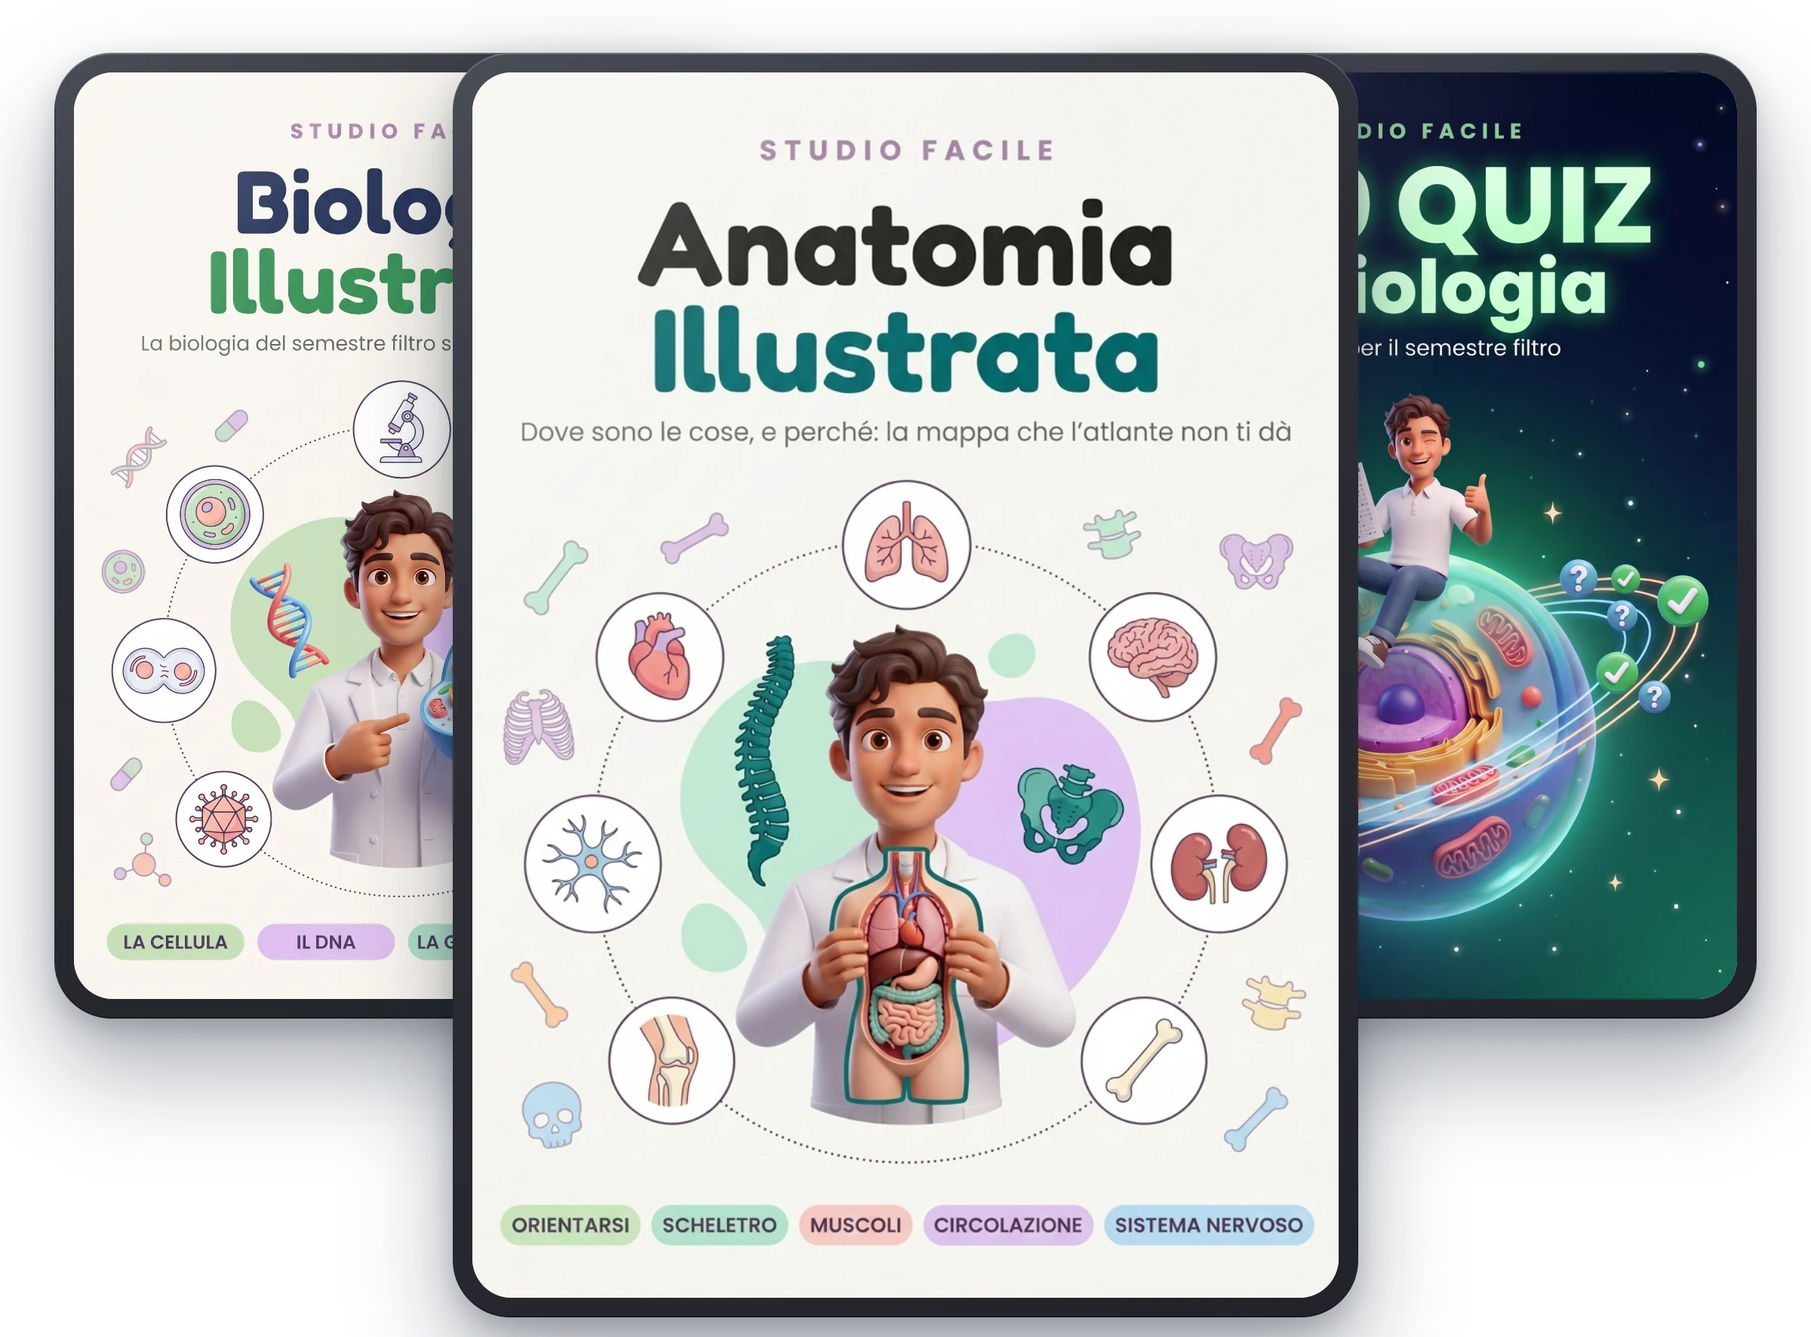
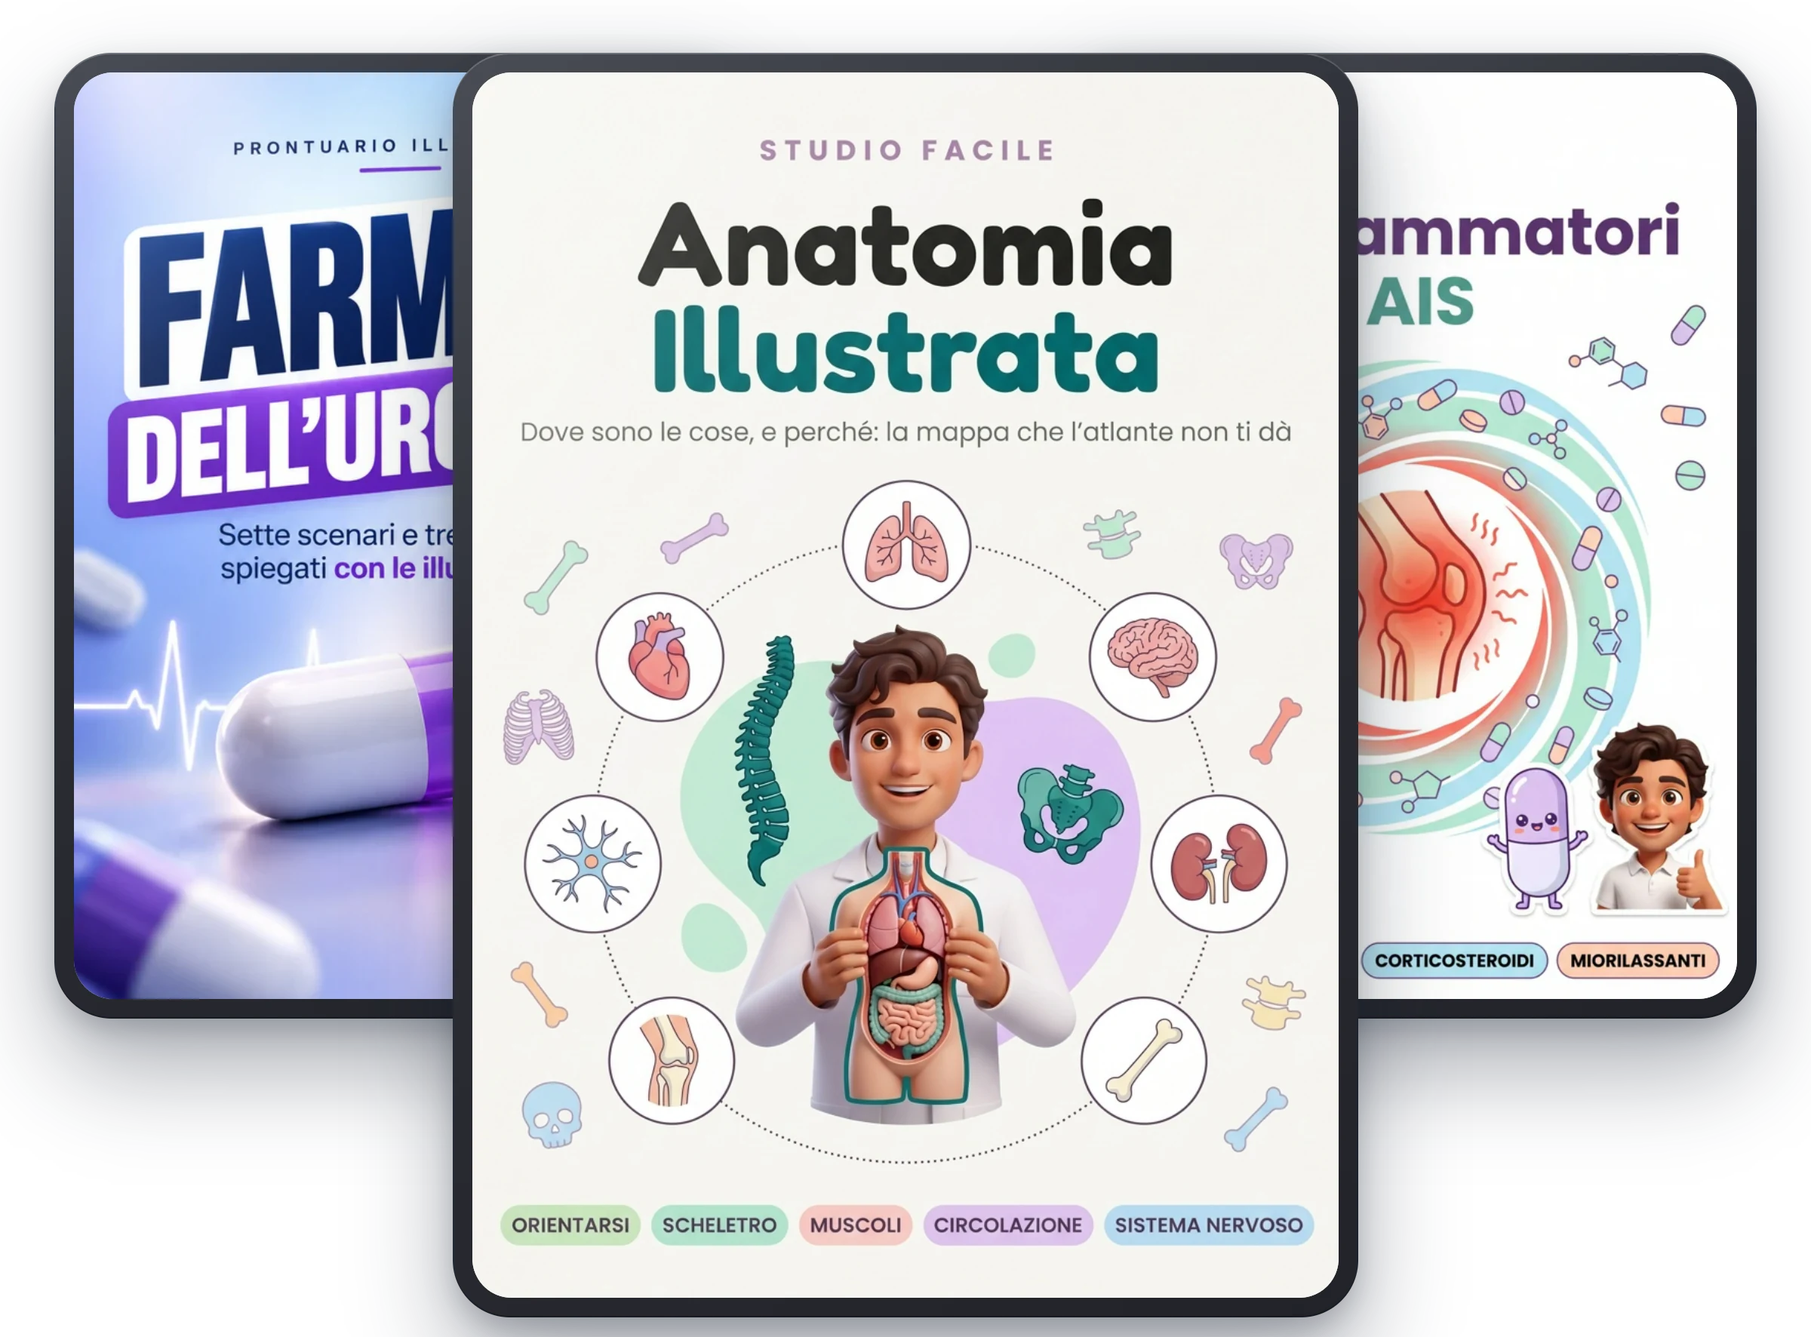
anatomia: bonus cambiados y comparativo arreglado
BONUS (eleccion de Luca): Farmaci in Emergenza (81 pag, 17,90) y el
Prontuario de Antinfiammatori (64 pag, 14,90), en lugar de los dos
volumenes de biologia. Los precios salen de collezione.html, no
inventados. El stack cierra: 58,20 + 17,90 + 14,90 = 91.

EL «QUESTO» DEL COMPARATIVO estaba mal y Luca lo marco. Era un recorte
del panel COSI NO de la pagina a6, y se traia la frase «A sinistra:
ventidue nomi in fila...»: dentro del libro tiene sentido porque hay un
«a destra», suelta en la landing no dice nada.

Ahora se compone aparte: una lista de 32 nombres anatomicos reales —el
carpo y los musculos del brazo— en dos columnas, en gris, sin ningun
dibujo, bajo el titulo «DA IMPARARE A MEMORIA / entro giovedi». No es la
pagina de ningun competidor: es el METODO que el libro dice de dejar, y
dibujarlo nosotros es la unica forma honesta de mostrarlo.

Sigue NOINDEX hasta que exista el producto del checkout.

Changed region(s): [[0.75, 0.031, 0.9688, 0.7449], [0.0312, 0.031, 0.25, 0.7449]]

diff --git a/anatomia.html b/anatomia.html
@@ -44,7 +44,7 @@
   <!-- Twitter / X -->
   <meta name="twitter:card" content="summary_large_image">
   <meta name="twitter:title" content="Anatomia Illustrata | Studio Facile">
-  <meta name="twitter:description" content="59 pagine illustrate, e due volumi di biologia in regalo.">
+  <meta name="twitter:description" content="59 pagine illustrate, e due prontuari clinici in regalo.">
   <meta name="twitter:image" content="https://www.studiofacilebook.com/mockups/anatomia/og.jpg">
 
   <!-- Iconos -->
@@ -2089,7 +2089,7 @@
     }
 </style>
   <script type="application/ld+json">
-{"@context": "https://schema.org", "@graph": [{"@type": "Product", "name": "Anatomia Illustrata — guida illustrata", "brand": {"@type": "Brand", "name": "Studio Facile"}, "description": "59 pagine illustrate, schemi e non tavole: ritmo, aritmie, blocchi, infarto ed elettroliti. Con due volumi in regalo.", "image": "https://www.studiofacilebook.com/mockups/anatomia/hero.webp", "offers": {"@type": "Offer", "price": "19.9", "priceCurrency": "EUR", "availability": "https://schema.org/InStock", "url": "https://checkout.studiofacilebook.com/checkout/kit-anatomia-illustrata", "hasMerchantReturnPolicy": {"@type": "MerchantReturnPolicy", "returnPolicyCategory": "https://schema.org/MerchantReturnFiniteReturnWindow", "merchantReturnDays": 30, "applicableCountry": "IT"}}}, {"@type": "FAQPage", "mainEntity": [{"@type": "Question", "name": "Come riceverò il materiale?", "acceptedAnswer": {"@type": "Answer", "text": "Subito dopo l'acquisto ricevi un'email automatica con i tre volumi: Anatomia Illustrata, Biologia Illustrata e 300 Quiz di Biologia. Sono PDF in alta risoluzione, pronti da scaricare, stampare o consultare da qualsiasi dispositivo."}}, {"@type": "Question", "name": "Il pagamento è mensile o unico?", "acceptedAnswer": {"@type": "Answer", "text": "Pagamento unico di 19,90€. Nessuna rata, nessun addebito ricorrente, nessuna sorpresa. Paghi una volta e il materiale è tuo per sempre."}}, {"@type": "Question", "name": "Serve partire da zero o bisogna già sapere qualcosa?", "acceptedAnswer": {"@type": "Answer", "text": "Si parte da zero: la prima parte dà i piani, le direzioni e il modo di leggere un nome anatomico prima di qualsiasi struttura. Chi l'esame lo ha già dato salta alla parte che gli serve e trova le dieci domande risolte in fondo."}}, {"@type": "Question", "name": "Sostituisce l'atlante?", "acceptedAnswer": {"@type": "Answer", "text": "No, e non prova a farlo: lo dice la prima pagina del libro. L'atlante ti mostra com'è fatta ogni struttura ed è insostituibile. Questo volume fa l'altra metà — dove sta, con che cosa confina, perché è così — e si tiene aperto accanto a quello."}}, {"@type": "Question", "name": "Copre tutto il programma di anatomia?", "acceptedAnswer": {"@type": "Answer", "text": "No, e sarebbe una bugia dirlo in 59 pagine: l'anatomia umana occupa migliaia di pagine. Questo libro copre la struttura del programma e gli argomenti che vengono chiesti più spesso, nel modo in cui vengono chiesti. Il titolo della parte III lo dice apertamente: i muscoli che cadono all'esame, non tutti i muscoli del corpo."}}, {"@type": "Question", "name": "Posso stampare il materiale?", "acceptedAnswer": {"@type": "Answer", "text": "Sì, per uso personale e senza limiti. I PDF sono pensati in alta risoluzione, da stampare, annotare e portare in reparto o in tirocinio."}}]}]}
+{"@context": "https://schema.org", "@graph": [{"@type": "Product", "name": "Anatomia Illustrata — guida illustrata", "brand": {"@type": "Brand", "name": "Studio Facile"}, "description": "59 pagine illustrate, schemi e non tavole: ritmo, aritmie, blocchi, infarto ed elettroliti. Con due volumi in regalo.", "image": "https://www.studiofacilebook.com/mockups/anatomia/hero.webp", "offers": {"@type": "Offer", "price": "19.9", "priceCurrency": "EUR", "availability": "https://schema.org/InStock", "url": "https://checkout.studiofacilebook.com/checkout/kit-anatomia-illustrata", "hasMerchantReturnPolicy": {"@type": "MerchantReturnPolicy", "returnPolicyCategory": "https://schema.org/MerchantReturnFiniteReturnWindow", "merchantReturnDays": 30, "applicableCountry": "IT"}}}, {"@type": "FAQPage", "mainEntity": [{"@type": "Question", "name": "Come riceverò il materiale?", "acceptedAnswer": {"@type": "Answer", "text": "Subito dopo l'acquisto ricevi un'email automatica con i tre volumi: Anatomia Illustrata, Farmaci in Emergenza e il Prontuario degli Antinfiammatori. Sono PDF in alta risoluzione, pronti da scaricare, stampare o consultare da qualsiasi dispositivo."}}, {"@type": "Question", "name": "Il pagamento è mensile o unico?", "acceptedAnswer": {"@type": "Answer", "text": "Pagamento unico di 19,90€. Nessuna rata, nessun addebito ricorrente, nessuna sorpresa. Paghi una volta e il materiale è tuo per sempre."}}, {"@type": "Question", "name": "Serve partire da zero o bisogna già sapere qualcosa?", "acceptedAnswer": {"@type": "Answer", "text": "Si parte da zero: la prima parte dà i piani, le direzioni e il modo di leggere un nome anatomico prima di qualsiasi struttura. Chi l'esame lo ha già dato salta alla parte che gli serve e trova le dieci domande risolte in fondo."}}, {"@type": "Question", "name": "Sostituisce l'atlante?", "acceptedAnswer": {"@type": "Answer", "text": "No, e non prova a farlo: lo dice la prima pagina del libro. L'atlante ti mostra com'è fatta ogni struttura ed è insostituibile. Questo volume fa l'altra metà — dove sta, con che cosa confina, perché è così — e si tiene aperto accanto a quello."}}, {"@type": "Question", "name": "Copre tutto il programma di anatomia?", "acceptedAnswer": {"@type": "Answer", "text": "No, e sarebbe una bugia dirlo in 59 pagine: l'anatomia umana occupa migliaia di pagine. Questo libro copre la struttura del programma e gli argomenti che vengono chiesti più spesso, nel modo in cui vengono chiesti. Il titolo della parte III lo dice apertamente: i muscoli che cadono all'esame, non tutti i muscoli del corpo."}}, {"@type": "Question", "name": "Posso stampare il materiale?", "acceptedAnswer": {"@type": "Answer", "text": "Sì, per uso personale e senza limiti. I PDF sono pensati in alta risoluzione, da stampare, annotare e portare in reparto o in tirocinio."}}]}]}
   </script>
 <!-- Brevo: seguimiento web (visitas y clics de compra para las automatizaciones) -->
 <script src="https://cdn.brevo.com/js/sdk-loader.js" async></script>
@@ -2131,7 +2131,7 @@
   <section class="hero">
     <div class="hero-content">
       <div class="hero-mockup">
-        <img src="https://czocbnyoenjbpxmcqobn.supabase.co/storage/v1/object/public/algoritmia-img/studiofacile/mockups/anatomia/hero.webp?v=1be2226b" alt="Anatomia Illustrata, con Biologia Illustrata e 300 Quiz di Biologia in regalo"
+        <img src="https://czocbnyoenjbpxmcqobn.supabase.co/storage/v1/object/public/algoritmia-img/studiofacile/mockups/anatomia/hero.webp?v=536844b3" alt="Anatomia Illustrata, con Farmaci in Emergenza e il Prontuario degli Antinfiammatori in regalo"
              width="1200" height="886" loading="eager" fetchpriority="high" decoding="async">
       </div>
       <p class="hero-social">
@@ -2259,11 +2259,11 @@
         <div class="comparison-card bad-card">
           <div class="comparison-label bad">QUESTO</div>
           <ul class="comparison-bullets bad-list">
-            <li>Ventidue nomi in ordine alfabetico</li>
+            <li>Una lista di nomi da mandare a memoria</li>
             <li>Nessun posto dove appenderli</li>
             <li>Dopo tre giorni non ne resta niente</li>
           </ul>
-          <img src="https://czocbnyoenjbpxmcqobn.supabase.co/storage/v1/object/public/algoritmia-img/studiofacile/mockups/anatomia/questo.webp?v=6563d3af" alt="Ventidue nomi in fila, senza nessun disegno" width="1200" height="1299" loading="lazy" decoding="async">
+          <img src="https://czocbnyoenjbpxmcqobn.supabase.co/storage/v1/object/public/algoritmia-img/studiofacile/mockups/anatomia/questo.webp?v=8edf0658" alt="Una lista di nomi anatomici da imparare a memoria" width="900" height="1190" loading="lazy" decoding="async">
         </div>
         <div class="comparison-card good-card">
           <div class="comparison-label good">PER QUESTO</div>
@@ -2455,39 +2455,39 @@
       <div class="bonus-grid">
         <div class="bonus-item-with-image">
           <div class="bonus-mockup">
-            <img src="https://czocbnyoenjbpxmcqobn.supabase.co/storage/v1/object/public/algoritmia-img/studiofacile/mockups/anatomia/bonus-biologia.webp?v=23380e65" alt="Biologia Illustrata" width="720" height="1000" loading="lazy" decoding="async">
+            <img src="https://czocbnyoenjbpxmcqobn.supabase.co/storage/v1/object/public/algoritmia-img/studiofacile/mockups/anatomia/bonus-emergenza.webp?v=6e2a5256" alt="Farmaci in Emergenza, prontuario illustrato" width="720" height="1000" loading="lazy" decoding="async">
           </div>
           <div class="bonus-text">
-            <h3>BONUS 1: &ldquo;Biologia Illustrata&rdquo;, 108 pagine</h3>
-            <p class="value">Valore singolo: 19,90€</p>
-            <p>L'altra materia che studi nello stesso periodo, nello stesso modo: <strong>la cellula, il DNA, la genetica</strong> e il metabolismo, un argomento per pagina e il disegno che lo spiega.</p>
-            <p style="margin-top: 12px;">È il volume più lungo della collana — da solo è quasi il doppio dell'anatomia.</p>
-            <div class="bonus-sfoglia"><figure><img src="https://czocbnyoenjbpxmcqobn.supabase.co/storage/v1/object/public/algoritmia-img/studiofacile/anteprime/biologia_01.webp?v=5af70717" alt="Una pagina di Biologia Illustrata" width="1100" height="1556" loading="lazy" decoding="async"><figcaption>La cellula, un argomento per pagina</figcaption></figure><figure><img src="https://czocbnyoenjbpxmcqobn.supabase.co/storage/v1/object/public/algoritmia-img/studiofacile/anteprime/biologia_04.webp?v=01017003" alt="Una pagina di Biologia Illustrata" width="1100" height="1556" loading="lazy" decoding="async"><figcaption>Il disegno porta la logica</figcaption></figure></div>
+            <h3>BONUS 1: &ldquo;Farmaci in Emergenza&rdquo;, il prontuario illustrato</h3>
+            <p class="value">Valore singolo: 17,90€</p>
+            <p>81 pagine sui farmaci del carrello dell'emergenza — <strong>adrenalina, amiodarone, atropina</strong> — con le diluizioni e le dosi da sapere a memoria.</p>
+            <p style="margin-top: 12px;">L'anatomia ti dice dove passa il nervo radiale e quale arteria irrora quale parete. Questo ti dice che cosa si prepara quando quella parete va in sofferenza: è lo stesso corpo, un anno dopo.</p>
+            <div class="bonus-sfoglia"><figure><img src="https://czocbnyoenjbpxmcqobn.supabase.co/storage/v1/object/public/algoritmia-img/studiofacile/anteprime/emergenza_04.webp?v=0b2fd0a9" alt="Le diluizioni che uccidono" width="1100" height="1556" loading="lazy" decoding="async"><figcaption>Le diluizioni che uccidono</figcaption></figure><figure><img src="https://czocbnyoenjbpxmcqobn.supabase.co/storage/v1/object/public/algoritmia-img/studiofacile/anteprime/emergenza_05.webp?v=a2bd30fe" alt="Scheda farmaco: amiodarone" width="1100" height="1556" loading="lazy" decoding="async"><figcaption>La scheda dell'amiodarone</figcaption></figure></div>
           </div>
         </div>
 
         <div class="bonus-item-with-image">
           <div class="bonus-mockup">
-            <img src="https://czocbnyoenjbpxmcqobn.supabase.co/storage/v1/object/public/algoritmia-img/studiofacile/mockups/anatomia/bonus-quiz.webp?v=96d38b05" alt="300 Quiz di Biologia" width="720" height="1000" loading="lazy" decoding="async">
+            <img src="https://czocbnyoenjbpxmcqobn.supabase.co/storage/v1/object/public/algoritmia-img/studiofacile/mockups/anatomia/bonus-antinfiammatori.webp?v=23a10358" alt="Prontuario Illustrato degli Antinfiammatori" width="720" height="1000" loading="lazy" decoding="async">
           </div>
           <div class="bonus-text">
-            <h3>BONUS 2: &ldquo;300 Quiz di Biologia&rdquo;, 68 pagine</h3>
+            <h3>BONUS 2: &ldquo;Prontuario Illustrato — Antinfiammatori&rdquo;</h3>
             <p class="value">Valore singolo: 14,90€</p>
-            <p>Trecento domande con la <strong>risposta spiegata</strong>, non solo segnata: perché quella è giusta e perché le altre tre sembravano giuste.</p>
-            <p style="margin-top: 12px;">È l'allenamento che manca a chi ha letto tutto e non sa ancora se lo sa davvero: si scopre in trenta secondi, non all'appello.</p>
-            <div class="bonus-sfoglia"><figure><img src="https://czocbnyoenjbpxmcqobn.supabase.co/storage/v1/object/public/algoritmia-img/studiofacile/anteprime/quizbio_01.webp?v=9e2c0905" alt="Una pagina di 300 Quiz di Biologia" width="1100" height="1556" loading="lazy" decoding="async"><figcaption>La domanda, e perché la risposta è quella</figcaption></figure><figure><img src="https://czocbnyoenjbpxmcqobn.supabase.co/storage/v1/object/public/algoritmia-img/studiofacile/anteprime/quizbio_02.webp?v=f4d876f3" alt="Una pagina di 300 Quiz di Biologia" width="1100" height="1556" loading="lazy" decoding="async"><figcaption>Trecento, divise per argomento</figcaption></figure></div>
+            <p>64 pagine sui farmaci più usati e più sottovalutati che esistano: <strong>FANS, cortisonici e paracetamolo</strong>, con quello che fanno allo stomaco, al rene e alla pressione.</p>
+            <p style="margin-top: 12px;">Sono le molecole che incontrerai in ogni reparto e in ogni tirocinio, qualunque strada scegli dopo.</p>
+            <div class="bonus-sfoglia"><figure><img src="https://czocbnyoenjbpxmcqobn.supabase.co/storage/v1/object/public/algoritmia-img/studiofacile/anteprime/antinfiammatori_03.webp?v=6e46e50f" alt="Una pagina del prontuario degli antinfiammatori" width="1100" height="1556" loading="lazy" decoding="async"><figcaption>Una famiglia per pagina</figcaption></figure><figure><img src="https://czocbnyoenjbpxmcqobn.supabase.co/storage/v1/object/public/algoritmia-img/studiofacile/anteprime/antinfiammatori_05.webp?v=a2524bcb" alt="Una pagina del prontuario degli antinfiammatori" width="1100" height="1556" loading="lazy" decoding="async"><figcaption>Che cosa guardare prima di darli</figcaption></figure></div>
           </div>
         </div>
       </div>
 
       <!-- DECISION BOX -->
       <div class="decision-box" id="offerta">
-        <img src="https://czocbnyoenjbpxmcqobn.supabase.co/storage/v1/object/public/algoritmia-img/studiofacile/mockups/anatomia/hero.webp?v=1be2226b" alt="Anatomia Illustrata con i due volumi in regalo" class="db-mockup" width="1200" height="886" loading="lazy" decoding="async">
+        <img src="https://czocbnyoenjbpxmcqobn.supabase.co/storage/v1/object/public/algoritmia-img/studiofacile/mockups/anatomia/hero.webp?v=536844b3" alt="Anatomia Illustrata con i due volumi in regalo" class="db-mockup" width="1200" height="886" loading="lazy" decoding="async">
         <h3 class="db-title">Anatomia Illustrata + 2 Volumi in Regalo</h3>
         <ul class="db-checklist">
-          <li><span class="db-check"><svg viewBox="0 0 24 24"><polyline points="20 6 9 17 4 12"/></svg></span>Anatomia Illustrata: 59 pagine illustrate<span class="db-price-val">56,20€</span></li>
-          <li><span class="db-check"><svg viewBox="0 0 24 24"><polyline points="20 6 9 17 4 12"/></svg></span>Bonus 1: Biologia Illustrata<span class="db-price-val">19,90€</span></li>
-          <li><span class="db-check"><svg viewBox="0 0 24 24"><polyline points="20 6 9 17 4 12"/></svg></span>Bonus 2: 300 Quiz di Biologia<span class="db-price-val">14,90€</span></li>
+          <li><span class="db-check"><svg viewBox="0 0 24 24"><polyline points="20 6 9 17 4 12"/></svg></span>Anatomia Illustrata: 59 pagine illustrate<span class="db-price-val">58,20€</span></li>
+          <li><span class="db-check"><svg viewBox="0 0 24 24"><polyline points="20 6 9 17 4 12"/></svg></span>Bonus 1: Farmaci in Emergenza<span class="db-price-val">17,90€</span></li>
+          <li><span class="db-check"><svg viewBox="0 0 24 24"><polyline points="20 6 9 17 4 12"/></svg></span>Bonus 2: Prontuario Antinfiammatori<span class="db-price-val">14,90€</span></li>
           <li><span class="db-check"><svg viewBox="0 0 24 24"><polyline points="20 6 9 17 4 12"/></svg></span>PDF in alta risoluzione per stampare<span class="db-price-val">Incluso</span></li>
         </ul>
         <div class="db-anchoring">
@@ -2562,8 +2562,8 @@
       <h2 class="text-center">Ricapitolando: Ecco Cosa Ricevi</h2>
       <ul class="recap-list">
         <li>Anatomia Illustrata: 59 pagine illustrate in 6 parti, dai piani del corpo al sistema nervoso, con dieci domande d'esame risolte</li>
-        <li>Bonus 1: &ldquo;Biologia Illustrata&rdquo;, 108 pagine (valore 19,90€)</li>
-        <li>Bonus 2: &ldquo;300 Quiz di Biologia&rdquo;, 68 pagine (valore 14,90€)</li>
+        <li>Bonus 1: &ldquo;Farmaci in Emergenza&rdquo;, prontuario illustrato di 81 pagine (valore 17,90€)</li>
+        <li>Bonus 2: &ldquo;Prontuario Illustrato — Antinfiammatori&rdquo;, 64 pagine (valore 14,90€)</li>
         <li>Consegna immediata: i 3 volumi arrivano via email subito dopo l'acquisto</li>
         <li>Garanzia di 30 giorni senza domande: provi senza rischio</li>
         <li>PDF in alta risoluzione: stampa, annota, porta in reparto</li>
@@ -2602,7 +2602,7 @@
             Come riceverò il materiale?
           </button>
           <div class="faq-answer" id="faq1" hidden>
-            <p>Subito dopo l'acquisto ricevi un'email automatica con i tre volumi: Anatomia Illustrata, Biologia Illustrata e 300 Quiz di Biologia. Sono PDF in alta risoluzione, pronti da scaricare, stampare o consultare da qualsiasi dispositivo.</p>
+            <p>Subito dopo l'acquisto ricevi un'email automatica con i tre volumi: Anatomia Illustrata, Farmaci in Emergenza e il Prontuario degli Antinfiammatori. Sono PDF in alta risoluzione, pronti da scaricare, stampare o consultare da qualsiasi dispositivo.</p>
           </div>
         </div>
         <div class="faq-item">
@@ -2657,7 +2657,7 @@
       <p>Non devi memorizzare cinquanta figure senza capire perché sono fatte così.</p>
       <p>E di sicuro <strong>non devi scoprire di non saperlo leggere proprio quando serve</strong>.</p>
       <p style="font-size: 22px; font-weight: 700; margin-top: 32px;">C'è un modo più semplice. Ed è a un clic di distanza.</p>
-      <p>Cinque punti, dieci domande risolte e due volumi di biologia in regalo.</p>
+      <p>Cinque punti, dieci domande risolte e due prontuari clinici in regalo.</p>
       <p><strong>Ora tocca a te.</strong></p>
       <div class="cta-summary">
         <ul>
